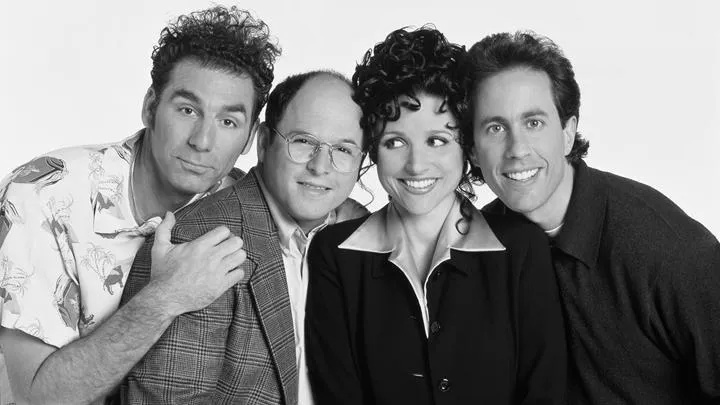
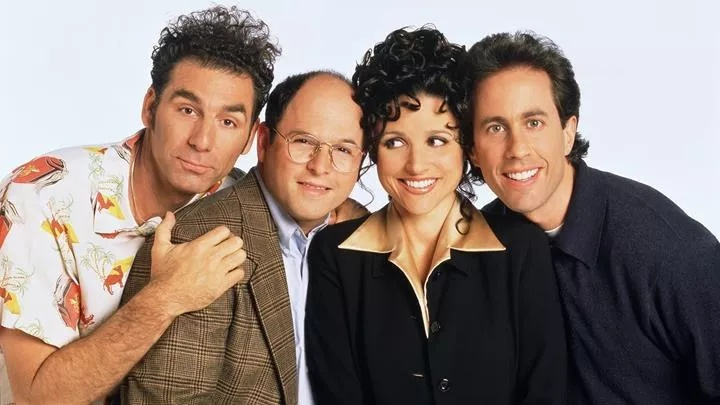
Guncellendi

diff --git a/Dersler/4-Utf-8DestekliYaziYazmak.py b/Dersler/4-Utf-8DestekliYaziYazmak.py
@@ -1,0 +1,65 @@
+# turkce.py
+
+import cv2
+import numpy as np
+from PIL import Image, ImageDraw, ImageFont
+import sys
+
+# Türkçe karakterleri de yazabilmek icin pillow kutuphanesini kullaniyoruz
+# pillow kutuphanesi bir goruntu isleme kutuphanesidir.Python da goruntu islemleri yapilabilmesi icin olusturulmustur.
+def print_utf8_text(image, text, fontName='DejaVuSerif',
+            color=(0,0,0), yer=(10,10), boy=48):
+    font = ImageFont.truetype(fontName, boy)  # font adi ve boyutu
+    pilImg = Image.fromarray(image)  # imajı pillow moduna çevir
+    #Image opencv de BGR renk uzayini kullaniyor ancak PIL RGB uzayini kullandigi icin onun cevirimini yapiyoruz.
+    draw = ImageDraw.Draw(pilImg)  # imajı hazırla
+    #ImageDraw basit iki boyutlu grafik olusturulmasini saglar
+    #burada yapilan pilimg'i cizmek
+
+    draw.text((yer[0], yer[1]), text,
+              fill=(color[0], color[1], color[2],0),font = font)
+    '''
+    PIL.ImageDraw.Draw.text(xy, text, fill=None, font=None)
+        Parameters:
+            xy –metnin solust kosesi
+            text – cizilecek metin
+            fill – metin icin kullanilacak renk
+            font – ImageFont ornegi
+
+    '''
+    image = np.array(pilImg)  # resmi tekrar opencv'nin kullanabilecegi moda (BGR) ceviriyoruz
+    return image
+
+if __name__ == "__main__":
+
+
+    imaj = np.ones((400, 700, 3), dtype=np.uint8) * 255#beyaz bir zemin olusturak icin
+
+
+
+    fontName='verdana.ttf'; renk = (0, 0, 0); yer = (10,10); boy = 64#sirayla deger atama islemleri.
+    #ayni satirda yazdigimiz icin aralara ; koyduk
+    imaj = print_utf8_text(imaj, "Ağaç ", fontName,
+                               renk, yer, boy)
+    #fonksiyonumuzun icerisine parametrelerimizi gonderiyoruz
+    # ve ayni islemleri farkli yazilar yazmak icin tekrarliyoruz
+
+    fontName = 'tahoma.ttf'
+    renk = (0, 0, 255); yer = (100,120); boy = 36
+    imaj = print_utf8_text(imaj, "Tuğrul Şahin Kök ", fontName,
+                               renk, yer, boy)
+
+    fontName = 'times.ttf'; renk = (128, 0, 0)
+    yer = (30,200); boy = 48
+    imaj = print_utf8_text(imaj,
+        "LACİVERT ", fontName, renk, yer, boy)
+
+    fontName = 'times.ttf'; renk = (0, 255, 0)
+    yer = (10,300); boy = 42
+    imaj = print_utf8_text(imaj, "Ömer ", fontName, renk, yer, boy)
+
+    cv2.imshow('beyaz fon', imaj)
+    cv2.moveWindow('beyaz fon', 10, 10)# pencerenin x,y duzleminde nerede acilacagini belirtir
+
+    cv2.waitKey(0)
+    cv2.destroyAllWindows()

diff --git a/Dersler/2-OpenCV-BGR.py b/Dersler/2-OpenCV-BGR.py
@@ -12,7 +12,7 @@ print(resim.dtype) #veriler hangi turde saklaniyor
 cv2.imshow("Brad Pitt",resim)
 cv2.waitKey(0)
 cv2.destroyAllWindows()
-#%%
+'''
 import cv2 
 
 resim = cv2.imread("../Resimler/bradpitt.jpg")#resim eger gri olursa 
@@ -24,7 +24,8 @@ print(resim.dtype) #veriler hangi turde saklaniyor
 cv2.imshow("Brad Pitt",resim)
 cv2.waitKey(0)
 cv2.destroyAllWindows()
-#%%
+'''
+'''
 import cv2 
 
 resim = cv2.imread("../Resimler/bradpitt.jpg",0)#resim eger gri olursa 
@@ -33,7 +34,8 @@ print(resim)#resim gri iken dondurulecek matris
 cv2.imshow("Brad Pitt",resim)
 cv2.waitKey(0)
 cv2.destroyAllWindows()
-#%%
+'''
+'''
 import cv2 
 
 resim = cv2.imread("../Resimler/bradpitt.jpg",0)#resim eger gri olursa 
@@ -47,3 +49,4 @@ print(resim.item(100,200),0)#Red
 cv2.imshow("Brad Pitt",resim)
 cv2.waitKey(0)
 cv2.destroyAllWindows()
+'''

diff --git a/Dersler/3-YaziYazmak.py b/Dersler/3-YaziYazmak.py
@@ -8,9 +8,9 @@ fontlar = [
     'FONT_HERSHEY_DUPLEX','FONT_HERSHEY_COMPLEX',
     'FONT_HERSHEY_TRIPLEX','FONT_HERSHEY_COMPLEX_SMALL',
     'FONT_HERSHEY_SCRIPT_SIMPLEX',
-    'FONT_HERSHEY_SCRIPT_COMPLEX']#font listesi olusturduk
+    'FONT_HERSHEY_SCRIPT_COMPLEX']#8 tane fontumuzla yazı yazmak için 8 tane yazı oluşturduk
 imaj = np.ones((720,780,3),np.uint8)*255#beyaz imaj (resim)
-for j in range(8):
+for j in range(8):#font numaraları 8 tane olduğu için sırasıyla 0'dan başlayarak farklı fontlar oluşturacak
     cv2.putText(imaj,fontlar[j],(20,40+j*40),j,1.1,(0,0,0),1)
     '''
         putText fonksiyonun parametreleri

diff --git a/Dersler/1-Resim-Acma,Okuma,Yazma.py b/Dersler/1-Resim-Acma,Okuma,Yazma.py
@@ -4,7 +4,7 @@
 import cv2
 
 
-resim = cv2.imread("../Resimler/seinfield.jpg",0)#resmi numpy dizisine donusturmeye yarar
+resim = cv2.imread("../Resimler/seinfield.jpg")#resmi numpy dizisine donusturmeye yarar
 #imread in ikinci parametresini 0 yaparsak resmi gri yapar yapmazsak normal bir sekilde acar 
 #her piksel 3 rengin karisimindan olusur k,y,m kombinasyonlarindan eger bir resme rgb degeri atamazsak resim gri olur burada yapilan islemde bu 
 cv2.imwrite("../Resimler/seinfield_gri.jpg",resim)#grilestirdigimiz resmi kaydetmemizi saglar 

diff --git a/Dersler/bos_resim1.py b/Dersler/bos_resim1.py
@@ -1,0 +1,9 @@
+import numpy as np
+import cv2
+
+deneme = np.zeros((400,400,3),dtype=np.uint8)
+#400x400 piksel boyutlarinda 3 renk kanalina sahip bir siyah pencere olusturur.
+#bu resmi bir numpy matrisiyle olusturup icerisini sifir ile doldurduk.(np.zeros)
+cv2.imshow('deneme',deneme)
+cv2.waitKey(0)
+cv2.destroyAllWindows()
